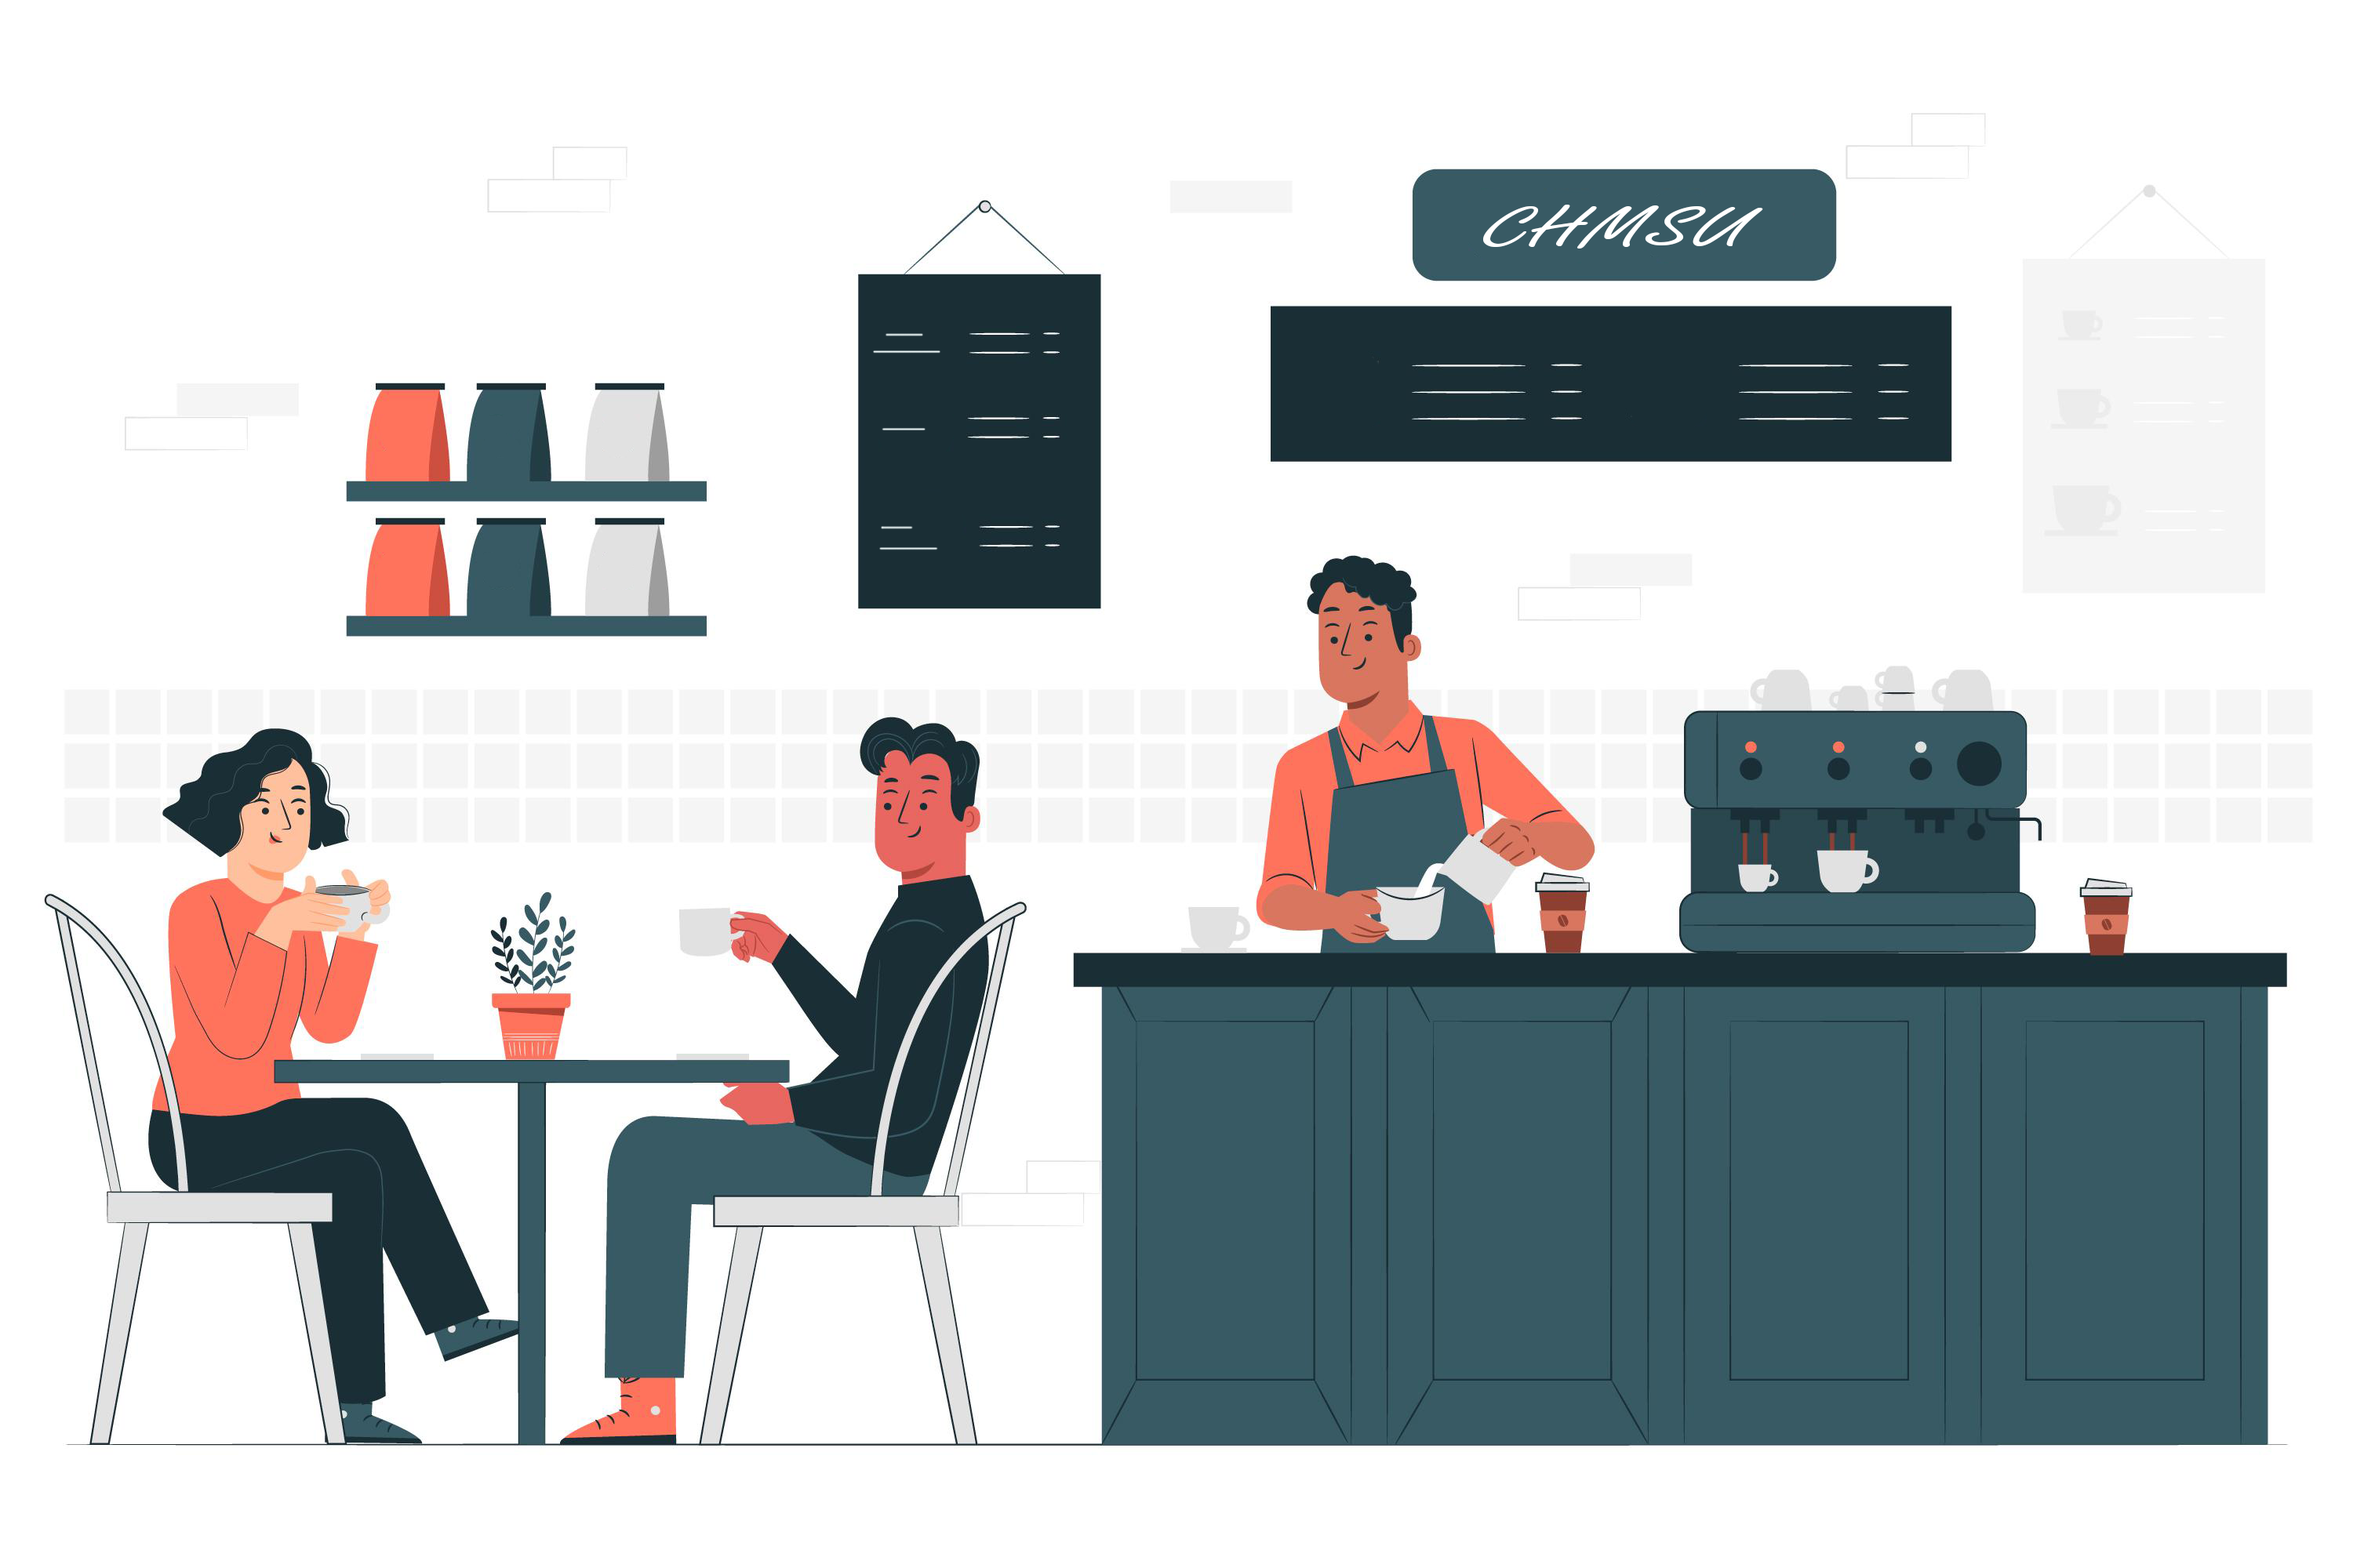
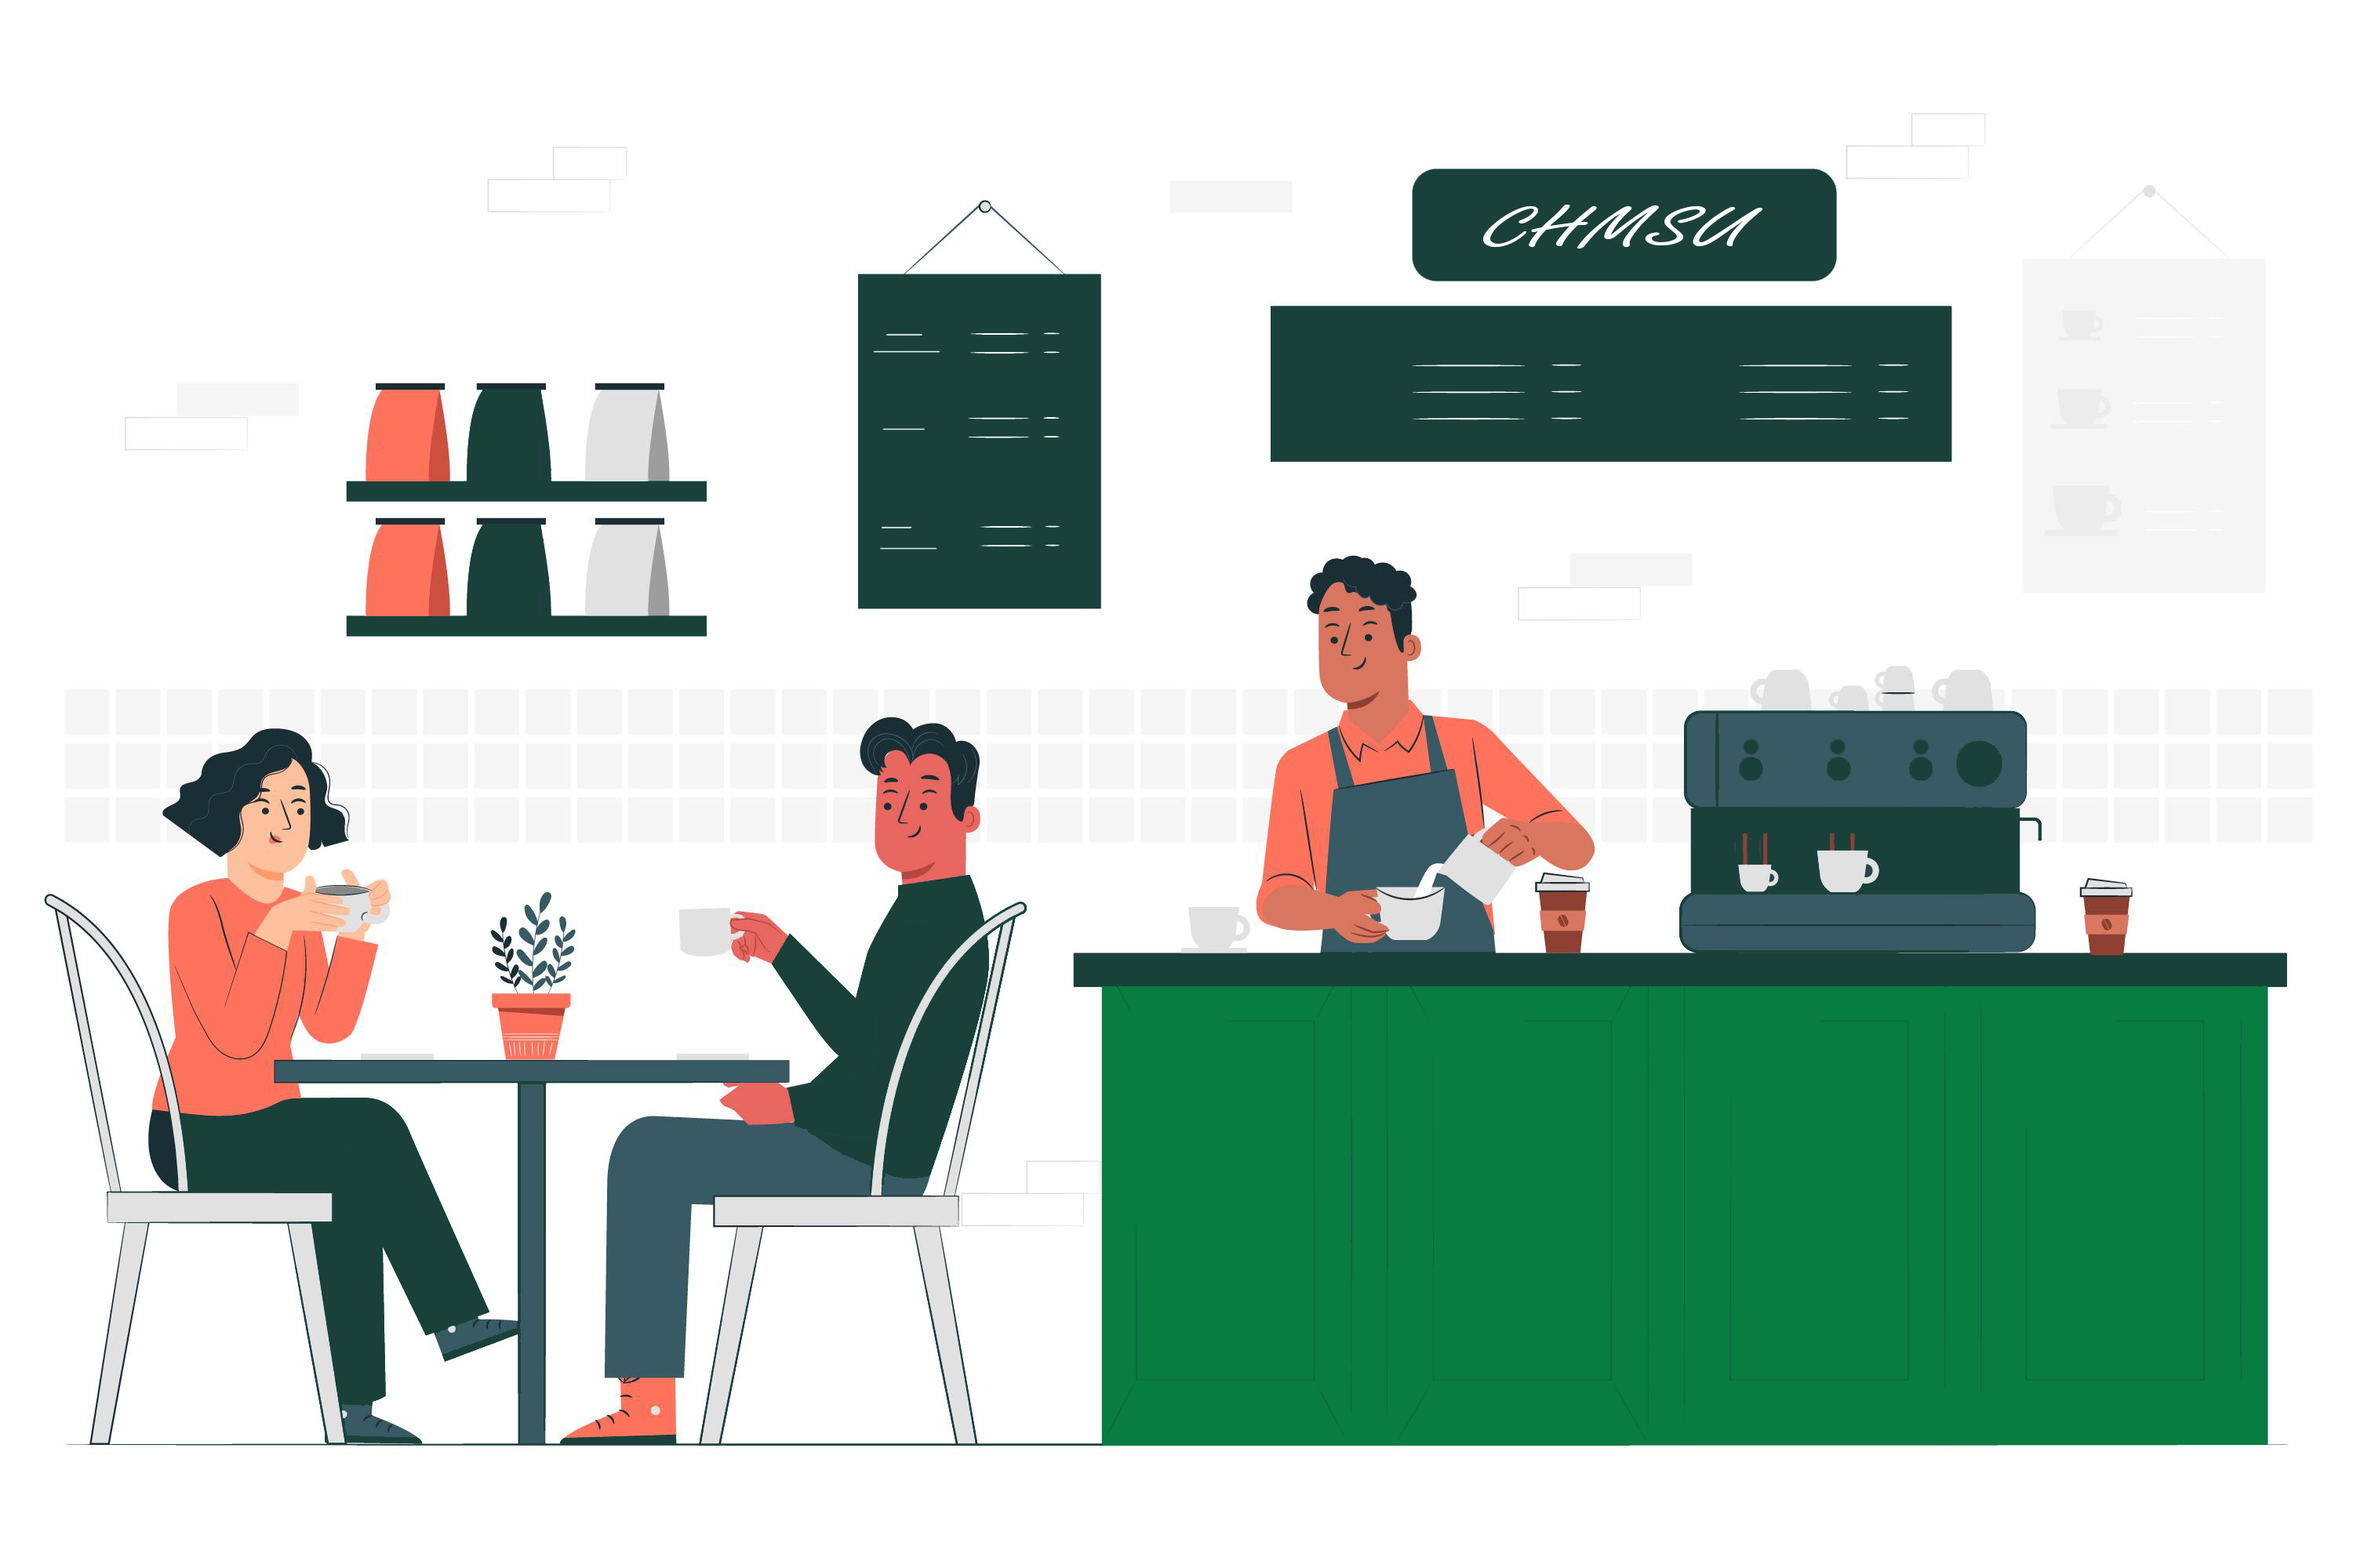
fix mailer

diff --git a/styles/page.css b/styles/page.css
@@ -62,12 +62,12 @@
   border: none;
   outline: none;
   border-radius: 4px;
-  background: #385a64;
+  background: #157347;
   margin-left: 16px;
   color: #f7f7f7;
 }
 .navbar__menu #button:hover {
-  background: #385a64b9;
+  background: #31a56f;
   transition: all 0.3s ease;
 }
 
@@ -116,7 +116,7 @@
 }
 .hero__container--left h1 {
   font-size: 4rem;
-  color: #385a64;
+  color: #157347;
 }
 @media screen and (max-width: 280px) {
   .hero__container--left h1 {
@@ -145,7 +145,7 @@
 }
 .hero__container--btn {
   font-size: 1rem;
-  background-color: #385a64;
+  background-color: #157347;
   padding: 14px 32px;
   border: none;
   border-radius: 4px;
@@ -169,7 +169,7 @@
   left: 0;
   width: 0;
   height: 100%;
-  background: #2fadd3;
+  background: #3fa877;
   transition: all 0.3s;
   border-radius: 4px;
 }

diff --git a/client/history.php b/client/history.php
@@ -1,0 +1,89 @@
+<?php
+
+session_start();
+if (isset($_SESSION["id"])) :
+    $user_id = $_SESSION["id"];
+
+    include("../connections.php");
+    include("fetch.php");
+?>
+    <!DOCTYPE html>
+    <html lang="en">
+
+    <head>
+        <meta charset="UTF-8">
+        <meta http-equiv="X-UA-Compatible" content="IE=edge">
+        <meta name="viewport" content="width=device-width, initial-scale=1.0">
+        <link rel="stylesheet" href="../plugins/bootstrap/css/bootstrap.min.css">
+        <link rel="stylesheet" href="styles/style.css">
+        <script src="../plugins/bootstrap/js/bootstrap.bundle.js"></script>
+        <link rel="stylesheet" href="https://cdn.datatables.net/1.12.1/css/dataTables.bootstrap5.min.css">
+
+        <title>CTMS</title>
+    </head>
+
+    <body>
+        <div class="container">
+            <?php include("inc/top_nav.php") ?>
+            <br><br>
+            <?php
+            $get_payment = mysqli_query($connections, "SELECT * FROM payment");
+            ?>
+            <h5>Payment History</h5>
+            <table id="fetch_result" class="table-sm table table-hover">
+                <thead>
+                    <tr>
+                        <th>Amount</th>
+                        <th>Ref. No</th>
+                        <th>Date</th>
+                    </tr>
+                </thead>
+                <tbody>
+                    <?php
+
+                    while ($row = mysqli_fetch_assoc($get_payment)) :
+                        $db_amount = $row["amount"];
+                        $db_refno = $row["refno"];
+                        $db_date = $row["date"];
+                    ?>
+                        <tr>
+                            <td><?php echo $db_amount ?></td>
+                            <td><?php echo $db_refno ?></td>
+                            <td><?php echo date("F j, Y", strtotime($db_date)) ?></td>
+
+                        </tr>
+                    <?php endwhile; ?>
+                </tbody>
+                <tfoot>
+                    <tr>
+                        <th>Amount</th>
+                        <th>Ref. No</th>
+                        <th>Date</th>
+                    </tr>
+                </tfoot>
+            </table>
+        </div>
+        <script src="https://code.jquery.com/jquery-3.5.1.js"></script>
+        <script src="https://cdn.datatables.net/1.12.1/js/jquery.dataTables.min.js"></script>
+        <script src="https://cdn.datatables.net/1.12.1/js/dataTables.bootstrap5.min.js"></script>
+        <script src="https://cdn.datatables.net/buttons/2.2.3/js/dataTables.buttons.min.js"></script>
+        <script src="https://cdn.datatables.net/buttons/2.2.3/js/buttons.print.min.js"></script>
+        <link rel="stylesheet" href="https://cdn.datatables.net/buttons/2.2.3/css/buttons.dataTables.min.css">
+        <script>
+            $(document).ready(function() {
+                $('#fetch_result').DataTable();
+            });
+        </script>
+
+
+
+        </div>
+
+    </body>
+
+    </html>
+<?php
+else :
+    @include "../error.php";
+endif;
+?>

diff --git a/admin/notify.php b/admin/notify.php
@@ -4,13 +4,6 @@ include("../connections.php");
 
 
 
-$db_retrieve = mysqli_query($connections, "SELECT * FROM tenants WHERE status='pending' ");
-while ($row = mysqli_fetch_assoc($db_retrieve)) {
-    $db_name = $row["fname"];
-    $recipients = $row["email"]. ',';
-        echo $recipients;
-}
-
 
 
 use PHPMailer\PHPMailer\PHPMailer;
@@ -24,7 +17,7 @@ require 'PHPMailer/src/SMTP.php';
 $due_date = date("d");
 $status = "active";
 
-if ($due_date == 20) {
+if ($due_date == 28) {
     $status = "Inactive";
 
 
@@ -44,14 +37,29 @@ if ($due_date == 20) {
         //Recipients
         $mail->setFrom('j.balansa00@gmail.com', 'Carlos Hilado Memorial State University');
         // $mail->addAddress('jbalansa143@gmail.com', 'User');
+        $query = "SELECT * FROM tenants";
+        $result = $connections->query($query);
 
-            $mail->addAddress($recipients);
-
-
+        while ($row = $result->fetch_assoc()) {
+            $mail->addAddress($row['email']);
+        }
         //Content
         $mail->isHTML(true);
         $mail->Subject = 'Carlos Hilado Memorial State University';
-        $mail->Body    = $db_name . $status . ' Due!';
+        $mail->Body    = "Dear, CHMSU Tenant <br>
+
+        This is a reminder that your payment for rental payment is about to end. The due <br> 
+        date will be the end of this month. We kindly request that you take care of this outstanding <br>
+        balance as soon as possible.
+        
+        If you have any questions or concerns, please don't hesitate to reach out to us at Carlos Hilado Memorial State University cashier. We want to <br> 
+        work with you to resolve this matter promptly. <br>
+        
+        Thank you for your attention to this matter. <br>
+        
+        Sincerely, Carlos Hilado Memorial State University";
+
+
         $mail->AltBody = 'Due!';
 
         $mail->send();

diff --git a/admin/applicants.php b/admin/applicants.php
@@ -64,9 +64,9 @@ if (isset($_SESSION["id"])) :
                                     <p class='badge rounded-pill text-bg-danger'><?php echo $db_status ?></p>
                                 </td>
                                 <td>
-                                    <a href='applicant_info.php?view=<?php echo $row['id'] ?>' name='btnAccept' class='btn-sm btn btn-info'>View</a>
-                                    <a href='mailer.php?accept=<?php echo $row['id'] ?>' name='btnAccept' class='btn-sm btn btn-success'>Accept</a>
-                                    <a href="mailer.php?reject=<?php echo $row['id'] ?>" name='btnReject' class='btn-sm btn btn-warning'>Reject</a>
+                                    <a href='applicant_info.php?view=<?php echo $row['id'] ?>' name='btnAccept' class='btn-sm btn btn-info' title="View all details"> <i class='bx bxs-user-detail'></i></a>
+                                    <a href='mailer.php?accept=<?php echo $row['id'] ?>' name='btnAccept' class='btn-sm btn btn-success' title="Accept tenant">Accept</a>
+                                    <a href="mailer.php?reject=<?php echo $row['id'] ?>" name='btnReject' class='btn-sm btn btn-warning' title="Reject tenant">Reject</a>
                                 </td>
                             </tr>
                         <?php endwhile; ?>

diff --git a/pending_page.php b/pending_page.php
@@ -8,15 +8,17 @@ include("connections.php");
     <meta charset="UTF-8">
     <meta http-equiv="X-UA-Compatible" content="IE=edge">
     <meta name="viewport" content="width=device-width, initial-scale=1.0">
-    <link rel="stylesheet" href="page.css">
+    <link rel="stylesheet" href="styles/style.css">
     <title>Request Pending</title>
 </head>
 
 <body>
     <div class="container">
-        <img class="img-fluid image mt-4" src="assets/undraw_loading.svg" alt=""><br>
-        <h2>Your request is pending for approval</h2>
-        <p class="lead mt-2">You will recieve an email notification when your request has been approved.</p>
+        <center>
+            <img style="width: 24rem;" class="image img-fluid image mt-5" src="assets/undraw_loading.svg" alt=""><br>
+            <h2>Your request is pending for approval</h2>
+            <p class="lead mt-2">You will recieve an email notification when your request has been approved.</p>
+        </center>
     </div>
 </body>
 

diff --git a/admin/applicant_info.php b/admin/applicant_info.php
@@ -44,7 +44,9 @@ if (isset($_SESSION["id"])) :
                     $db_b_permit = $row["b_permit"];
                     $db_h_certificate = $row["h_certificate"];
                 }
-
+                $date = date_create($db_birth_date);
+                $db_birth_date = date_format($date, "M-d-Y");
+                $age = date('Y') - date_format($date, 'Y');
                 $fullname = $db_first_name . " " . $db_last_name;
             }
             ?>
@@ -58,6 +60,10 @@ if (isset($_SESSION["id"])) :
                     <tr>
                         <th>Name:</th>
                         <td><?php echo $fullname ?></td>
+                    </tr>
+                    <tr>
+                        <th>Age:</th>
+                        <td><?php echo $age ?></td>
                     </tr>
                     <tr>
                         <th>Date of Birth:</th>

diff --git a/index.php b/index.php
@@ -5,6 +5,7 @@
   <meta charset="UTF-8" />
   <meta name="viewport" content="width=device-width, initial-scale=1.0" />
   <link rel="stylesheet" href="https://use.fontawesome.com/releases/v5.15.1/css/all.css" integrity="sha384-vp86vTRFVJgpjF9jiIGPEEqYqlDwgyBgEF109VFjmqGmIY/Y4HV4d3Gp2irVfcrp" crossorigin="anonymous" />
+  <link rel="stylesheet" href="https://cdnjs.cloudflare.com/ajax/libs/animate.css/4.1.1/animate.min.css" />
   <link rel="stylesheet" href="./styles/page.css" />
   <title>CHMSU TMS</title>
 </head>
@@ -23,7 +24,7 @@
   <!-- Hero Section -->
   <div class="hero">
     <div class="hero__container">
-      <div class="hero__container--left">
+      <div class="hero__container--left animate__animated animate__fadeInLeft">
         <h1>Become a part of </h1>
         <h2>CHMSU Tenant</h2>
         <p>Sign up now to join the list.</p>

diff --git a/login.php b/login.php
@@ -43,7 +43,7 @@ if ($_SERVER["REQUEST_METHOD"] == "POST") {
 
                         echo "<script>window.location.href='system_admin'</script>";
                     } elseif ($db_account_type == "tenant") {
-
+                        
                         $tenant_info = mysqli_query($connections, "SELECT tenants.fname, tenants.lname, users.account_type FROM tenants INNER JOIN users ON tenants.id = users.user_id WHERE users.id='$user_id'");
                         while ($row = mysqli_fetch_assoc($tenant_info)) {
                             $db_firstname = $row["fname"];

diff --git a/admin/inc/top_nav.php b/admin/inc/top_nav.php
@@ -15,9 +15,6 @@
                 <li class="nav-item">
                     <a class="nav-link active" aria-current="page" href="tenants.php">Tenants</a>
                 </li>
-                <li class="nav-item">
-                    <a class="nav-link active" aria-current="page" href="space.php">Space</a>
-                </li>
                 <li class="nav-item"> 
                     <a class="nav-link active" href="reports.php">Payments</a>
                 </li>

diff --git a/client/inc/top_nav.php b/client/inc/top_nav.php
@@ -13,7 +13,7 @@
                     <a class="nav-link active" href="payments.php">Payments</a>
                 </li>
                 <li class="nav-item">
-                    <a class="nav-link active" href="#">History</a>
+                    <a class="nav-link active" href="history.php">History</a>
                 </li>
                 <li class="nav-item">
                     <a class="nav-link active" href="profile.php">Profile</a>

diff --git a/system_admin/users.php b/system_admin/users.php
@@ -31,8 +31,6 @@ if (isset($_SESSION["id"])) :
                 <br>
                 <br>
                 <p>List of coordinators</p>
-                <a href="http://">Active</a>
-                <a href="http://">Inactive</a>
                 <hr>
                 <table id="fetch_result" class="table-sm table table-striped">
                     <thead>
